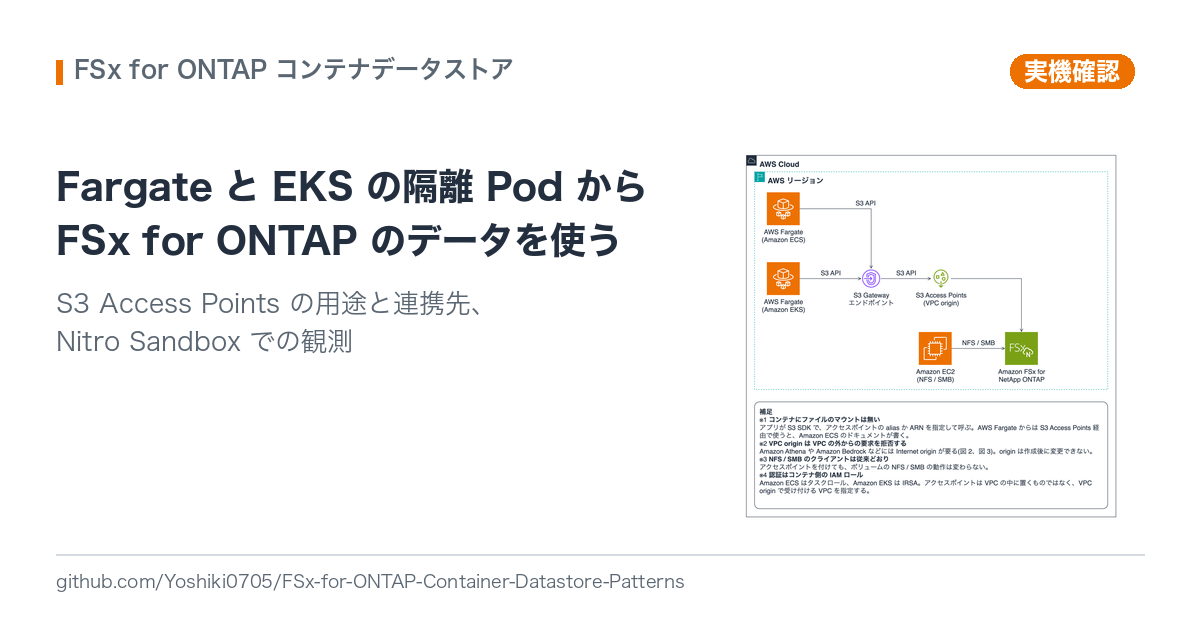
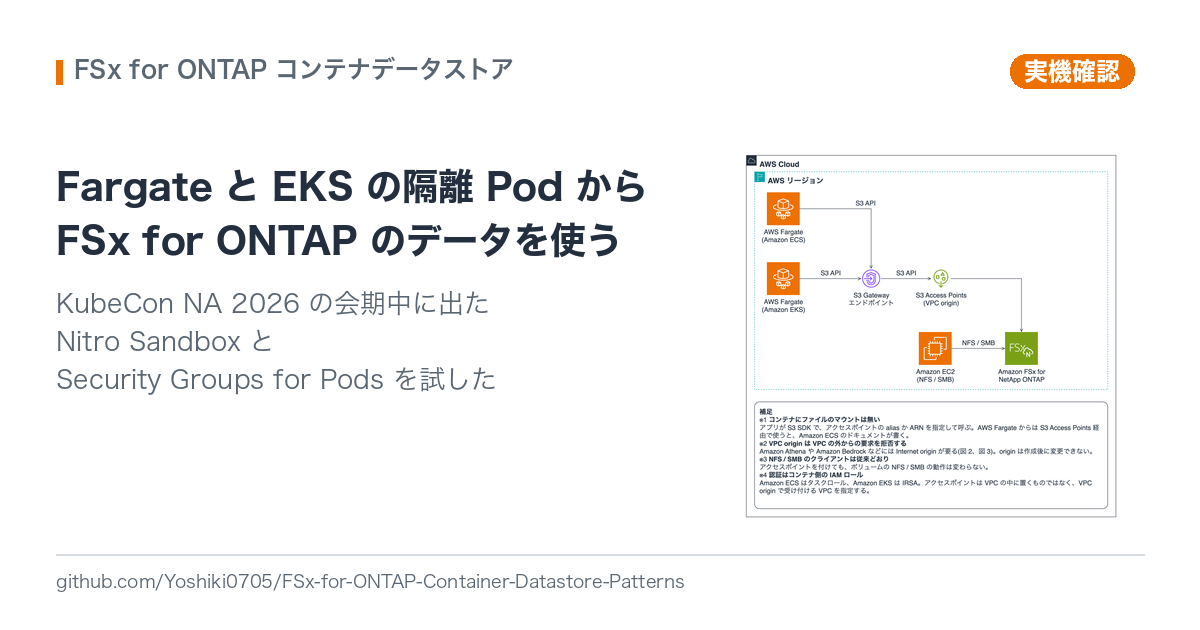
docs: point the blog eyecatch cards at the KubeCon NA 2026 updates (#58)

Changed region(s): [[0.0308, 0.4524, 0.4008, 0.6333]]

diff --git a/tools/make_eyecatch_cards.py b/tools/make_eyecatch_cards.py
@@ -96,14 +96,14 @@ CARDS = [
         slug="s3ap-containers-nitro-sandbox",
         part="実機確認",
         headline="Fargate と EKS の隔離 Pod から\nFSx for ONTAP のデータを使う",
-        subline="S3 Access Points の用途と連携先、\nNitro Sandbox での観測",
+        subline="KubeCon NA 2026 の会期中に出た\nNitro Sandbox と\nSecurity Groups for Pods を試した",
         figure="s3ap-container-overview@2x.png",
     ),
     Card(
         slug="s3ap-containers-nitro-sandbox-en",
         part="Hands-on check",
         headline="Using FSx for ONTAP data from\nFargate and EKS isolated pods",
-        subline="S3 Access Points use cases and integrations,\nand a Nitro Sandbox check",
+        subline="Nitro Sandbox and Security Groups for Pods,\ntried during KubeCon NA 2026 week",
         figure="s3ap-container-overview-en@2x.png",
         lang="en",
     ),
